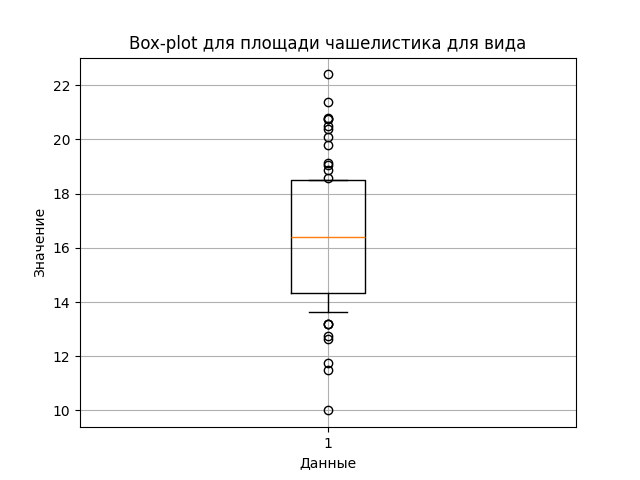
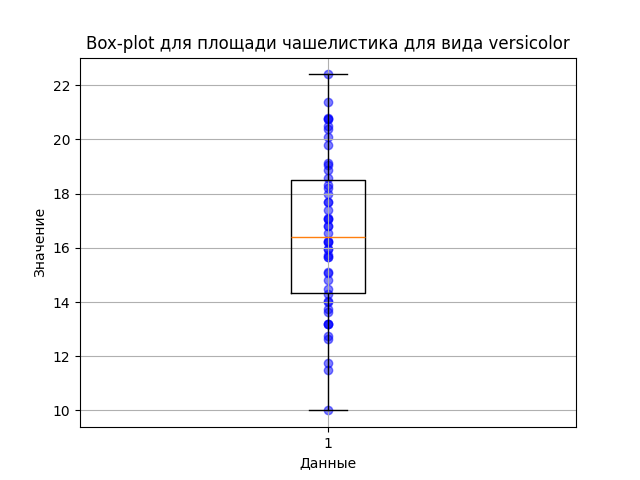
пуллю лютую гисту

Changed region(s): [[0.125, 0.0625, 0.9062, 0.875]]

diff --git a/main.py b/main.py
@@ -97,7 +97,7 @@ def empirical_cdf(data, title, specie):
         plt.plot([edges[i], edges[i + 1]], [Y[i], Y[i]], c="blue")
     plt.xlabel('Значение')
     plt.ylabel('F(x)')
-    plt.title('ЭФР ' + title)
+    plt.title(f'ЭФР {title} {specie}')
     plt.grid()
     plt.legend()
     filename = "efr_sepal_squares" if 'чашелистика' in title else "efr_petal_squares"
@@ -113,10 +113,10 @@ def custom_boxplot(data, title, specie):
     """
     plt.boxplot(data)
     for i, d in enumerate(data):
-		plt.scatter(1, d, c="blue", alpha=0.5)
-	plt.xlabel('Данные')
-	plt.ylabel('Значение')
-	plt.title(f'Box-plot для {title} {specie}')
+        plt.scatter(1, d, c="blue", alpha=0.5)
+    plt.xlabel('Данные')
+    plt.ylabel('Значение')
+    plt.title(f'Box-plot для {title} {specie}')
     plt.grid()
     filename = "boxplot_sepal_squares" if 'чашелистика' in title else "boxplot_petal_squares"
     scope = "_whole" if not specie else f"_{specie}"
